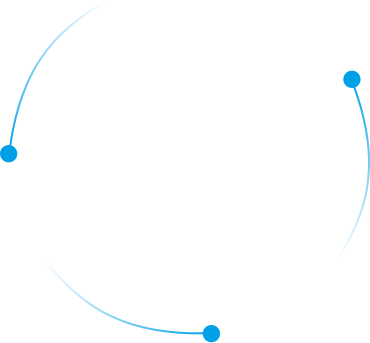
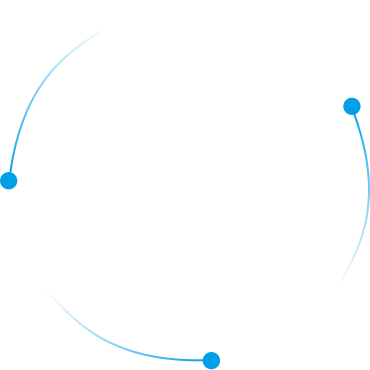
平台安全修改

diff --git a/modules/css/safecenter.css b/modules/css/safecenter.css
@@ -17,7 +17,7 @@
     margin:0 auto;
 }
 .platsafe .zhsafe-left{
-    height:342px;
+    height:369px;
     width:369px;
     float:left;
     margin-left:110px;
@@ -26,12 +26,12 @@
 }
 .platsafe .zhsafe-left .zhuanimg{
     position:absolute;
-    left:-8.5%;
-    top:-1.5%;
-    width:372px;
-    height:346px;
+    left:-1px;
+    top:-25px;
+    width:370px;
+    height:370px;
 }
-.platsafe .zhsafe-left img{
+.platsafe .zhsafe-left>img{
     margin-left:32px;
     margin-top:3px;
 }
@@ -39,7 +39,7 @@
     from{transform:rotate(0deg)}
     to{transform:rotate(360deg)}
 }
-.platsafe .zhsafe-left .zhuanimg img{
+.platsafe .zhsafe-left .zhuanimg {
     animation:rotating 2s infinite linear ;
     transform-origin: center center;
 }

diff --git a/page/aboutus/legel.html b/page/aboutus/legel.html
@@ -18,19 +18,12 @@
                 <!---->
             <!--</div>-->
             <div class="con-tab">
-
-
-
             <ul class="con-left clearfix" id="con-left">
                 <li class="legel-bo">法律声明</li>
                 <li>免责声明</li>
                 <!--<li class="kongb"></li>-->
             </ul>
-
-
                 <div class="kongb">
-
-
                 </div>
             </div>
             <div  class="wrap">
